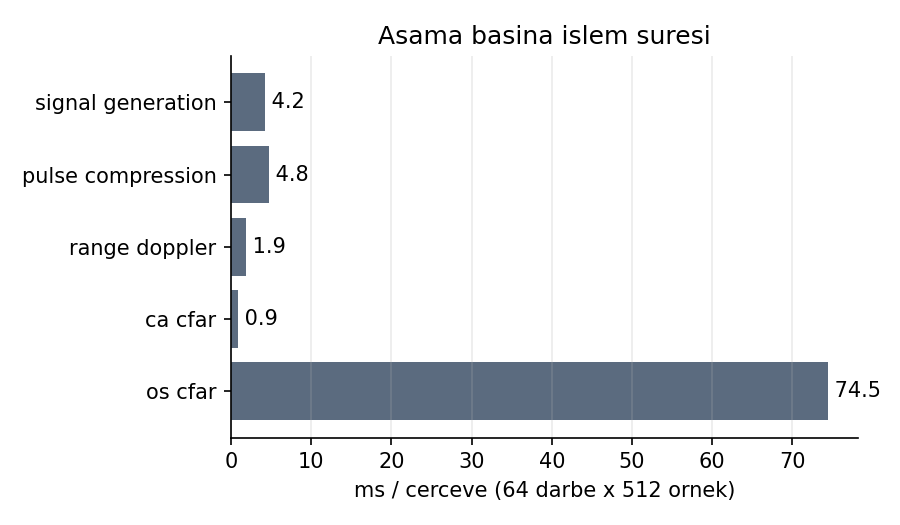
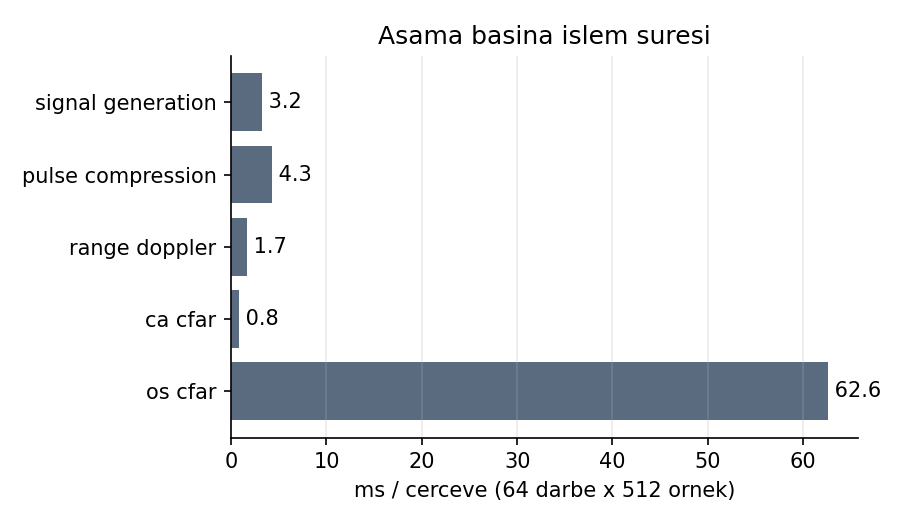
Add README with results, final plots and report script tweaks

diff --git a/scripts/make_report.py b/scripts/make_report.py
@@ -287,14 +287,13 @@ for sc, label in (("homogeneous", "Homojen gürültü"), ("clutter_edge", "Clutt
                                   col_widths=[2.6 * cm] + [1.5 * cm] * len(sel))]
 
 story += [Spacer(1, 6), P("Yorum", H2)] + bullets([
-    "<b>Homojen gürültüde</b> CA ve OS pratikte aynıdır; Pd = 0.5 civarı ≈ 15–16 dB'dedir. Teorik bağımsız-hücre "
-    "değerinden yaklaşık 2–3 dB sağdadır; fark pencere kaybı, scalloping ve CFAR kayıplarından gelir.",
+    "<b>Homojen gürültüde</b> CA ve OS pratikte aynıdır; Pd = 0.5 civarı ≈ 15–16 dB'dedir. Bu nokta ideal "
+    "bağımsız-hücre değerinin birkaç dB sağındadır; fark pencere kaybı, scalloping ve CFAR kayıplarından gelir.",
     "<b>Yakın güçlü hedef senaryosunda</b> CA-CFAR hedefi hemen hiç bulamaz: eğitim penceresindeki 15 dB daha güçlü "
     "komşu ortalamayı şişirir, eşik hedefin üstüne çıkar (maskeleme). OS-CFAR, k. sıralı istatistik tek bir güçlü "
     "hücreden etkilenmediği için yüksek SNR'larda Pd ≈ 1'e ulaşır.",
-    "<b>Clutter kenarında</b> iki dedektör benzer davranır; OS yüksek SNR'da hafif öndedir. Bu senaryoda clutter "
-    "Doppler ekseninde de yayılmış olduğundan hedef kısmen clutter'la örtüşür ve her iki dedektör de "
-    "yüksek SNR'a kadar ilerler."])
+    "<b>Clutter kenarında</b> iki dedektör benzer davranır; OS yüksek SNR'da hafif öndedir. CA yüksek SNR'da "
+    "0.95–0.97 civarında kalırken OS 20 dB'den itibaren 1.0'a ulaşır."])
 
 pfa = read_csv("pfa.csv") if (OUT / "pfa.csv").exists() else []
 story += [P("4.3 Gerçekleşen Pfa", H2),

diff --git a/README.md b/README.md
@@ -1,0 +1,147 @@
+# cfar-radar-pipeline
+
+C++17 ile sıfırdan yazılmış bir **radar sinyal işleme hattı**: simüle I/Q verisi üzerinde **darbe sıkıştırma**, **range-Doppler FFT** ve **CA-/OS-CFAR hedef tespiti**; Monte Carlo ile **Pd / Pfa** ve işlem süresi ölçümü. Harici kütüphane yok — FFT dahil her algoritma bu depoda.
+
+![Range-Doppler haritası ve CFAR tespitleri](docs/images/range_doppler.png)
+
+*Üç hareketli hedef ve 300–900 m arasında sıfır Doppler clutter şeridi. Beyaz daireler gerçek hedefler, mavi daireler CA-CFAR, turuncu çarpılar OS-CFAR tespitleri.*
+
+## Neler var?
+
+| Modül | İş | Dosya |
+|---|---|---|
+| Sinyal modeli | LFM chirp, hareketli hedefler (Doppler fazı), karmaşık Gauss gürültü, clutter | `src/signal_gen.*` |
+| FFT | Kendi yazdığım iteratif radix-2 FFT/IFFT, referans DFT, `fftshift` | `src/fft.*` |
+| Darbe sıkıştırma | FFT tabanlı eşleşik filtre, Hamming yan lob ağırlığı | `src/pulse_compression.*` |
+| Range-Doppler | Slow-time FFT, Hann/Hamming pencere, menzil/hız eksenleri, CSV çıktısı | `src/range_doppler.*` |
+| CFAR | 2B CA-CFAR (integral görüntü ile O(1)) ve OS-CFAR (`nth_element`) | `src/cfar.*` |
+| Değerlendirme | Monte Carlo Pd / Pfa, aşama başına süre | `src/evaluation.*` |
+
+## Mimari
+
+```mermaid
+flowchart LR
+    A["signal_gen<br/>hedef + clutter + gürültü<br/>(darbe × örnek I/Q)"] --> B["pulse_compression<br/>eşleşik filtre<br/>(menzil keskinleşir)"]
+    B --> C["range_doppler<br/>pencere + slow-time FFT<br/>(menzil × hız haritası)"]
+    C --> D["cfar<br/>CA / OS eşik<br/>(adaptif karar)"]
+    D --> E["tespit listesi<br/>menzil m · hız m/s · SNR dB"]
+    C -.-> F["evaluation<br/>Monte Carlo: Pd, Pfa, ms/frame"]
+    D -.-> F
+```
+
+## Derleme ve çalıştırma
+
+Gereksinimler: C++17 derleyici (GCC/Clang/MinGW), CMake ≥ 3.16. Grafikler için Python 3 + `numpy`, `matplotlib`.
+
+```bash
+cmake -S . -B build
+cmake --build build
+ctest --test-dir build --output-on-failure      # 5 test
+./build/radar_demo                              # demo + Monte Carlo (birkaç dakika)
+./build/radar_demo --no-mc                      # yalnızca demo (saniyeler)
+./build/radar_demo --trials 300                 # daha hassas Pd eğrileri
+
+python scripts/plot.py                          # output/*.csv -> docs/images/*.png
+```
+
+(Klasik biçim de çalışır: `mkdir build && cd build && cmake .. && make && ./radar_demo`.)
+
+`radar_demo` şunları yazdırır: radar tasarım büyüklükleri, gerçek hedefler, CA/OS tespit listeleri, süre tablosu, Pd–SNR tabloları ve gerçekleşen Pfa. CSV çıktıları `output/` klasörüne gider.
+
+## Radar parametreleri
+
+| Parametre | Değer | Türetilen | Değer |
+|---|---|---|---|
+| Taşıyıcı | 10 GHz (X-band) | Dalga boyu λ = c/fc | 3 cm |
+| Bant genişliği B | 10 MHz | Menzil çözünürlüğü c/(2B) | 14.99 m |
+| Örnekleme fs | 20 MHz | Menzil hücresi c/(2fs) | 7.49 m |
+| Darbe genişliği | 10 µs (200 örnek) | Hız çözünürlüğü λ·PRF/(2N) | 2.34 m/s |
+| PRF / darbe sayısı | 10 kHz / 64 | Belirsiz hız ±λ·PRF/4 | ±75 m/s |
+
+## Kullanılan denklemler
+
+* **LFM chirp:** s(t) = exp(jπk(t − Tp/2)²), k = B/Tp
+* **Gecikme ve Doppler:** τ = 2R/c; fd = 2v/λ; darbeler arası faz adımı = 2π·fd/PRF
+* **Eşleşik filtre:** y[n] = Σ x[n+m]·s*[m] ⇔ Y[k] = X[k]·S*[k] (FFT → çarp → IFFT). Kazanç L = B·Tp, çözünürlük c/2B
+* **Doppler ekseni:** fd = (k − N/2)·PRF/N, v = fd·λ/2
+* **CA-CFAR:** eşik = α·ortalama(eğitim hücreleri), α = N·(Pfa^(−1/N) − 1)
+* **OS-CFAR:** eşik = T·(k. sıralı istatistik); Pfa = Π_{i=0}^{k−1} (N−i)/(N−i+T) denkleminden T sayısal çözülür
+* **Bütünleştirme sonrası SNR** = A²·L·N/σ² (sıkıştırma ≈ 23 dB + darbe toplama ≈ 18 dB)
+
+## Sonuçlar
+
+### Pd – SNR (tasarım Pfa = 10⁻⁶, 150 deneme/nokta)
+
+![Pd–SNR](docs/images/pd_vs_snr.png)
+
+| Senaryo | Pd = 0.5 SNR | Pd ≥ 0.95 SNR (CA / OS) |
+|---|---|---|
+| Homojen gürültü | ≈ 15.5 dB | 18 dB / 18 dB |
+| Clutter kenarı | ≈ 15.5 dB | ≈ 18 dB / ≈ 18 dB (CA yüksek SNR'da 0.95–0.97'de kalır, OS 20 dB'den itibaren 1.0) |
+| Yakın güçlü hedef (+15 dB, eğitim penceresinde) | CA: hiçbir SNR'da (Pd ≈ 0) · OS: ≈ 17 dB | CA: yok / OS: 22 dB |
+
+* **Homojen gürültüde CA ≈ OS.** Pd = 0.5 noktası teorik bağımsız-hücre değerinden birkaç dB sağda; fark Hann penceresi (≈ 1.8 dB), Hamming ağırlıklı filtre (≈ 1.3 dB), scalloping ve CFAR kayıplarıdır.
+* **Eğitim penceresinde güçlü komşu varsa CA-CFAR hedefi kaçırır** (maskeleme): ortalama şişer, eşik hedefin üstüne çıkar. OS-CFAR k. sıralı istatistiği kullandığı için bundan etkilenmez.
+
+### Gerçekleşen Pfa (yalnızca gürültü)
+
+![Pfa](docs/images/pfa.png)
+
+| Tasarım Pfa | CA-CFAR | OS-CFAR |
+|---|---|---|
+| 10⁻² | 1.30·10⁻² | 1.28·10⁻² |
+| 10⁻³ | 1.71·10⁻³ | 1.71·10⁻³ |
+| 10⁻⁴ | 2.48·10⁻⁴ | 2.45·10⁻⁴ |
+
+Ölçülen Pfa tasarımdan **1.3–2.5 kat yüksek**. Sebep: eşik formülleri bağımsız üstel hücreleri varsayar; gerçekte fs = 2B ile sıkıştırılmış gürültü komşu menzil hücrelerinde, Hann penceresi komşu Doppler hücrelerinde ilintilidir. Bu sapmayı görmek ve açıklamak projenin amaçlarındandı.
+
+### Performans (64 darbe × 512 örnek, tek çekirdek, `-O3`)
+
+![Süre](docs/images/timing.png)
+
+| Aşama | ms / çerçeve |
+|---|---|
+| Darbe sıkıştırma | 4.3 |
+| Range-Doppler | 1.7 |
+| CA-CFAR | 0.8 |
+| OS-CFAR | 62.6 |
+| **Hat (sıkıştırma + RD + CA-CFAR)** | **≈ 6.7** |
+| Hat (OS-CFAR ile) | ≈ 68.5 |
+
+CA-CFAR integral görüntü sayesinde hücre başına O(1); OS-CFAR her hücrede 138 elemanlı kısmi sıralama yaptığı için ≈ 80 kat yavaş. (Süreler makineye ve anlık yüke bağlıdır; oranlar daha anlamlıdır.)
+
+## Testler
+
+Dış bağımlılık yok (`tests/test_util.h`); CTest ile 5 test:
+
+* `test_signal_gen` — çözünürlük hesapları, chirp genliği, yankı süresi, Doppler faz adımı, gürültü gücü
+* `test_fft` — bilinen sinüs, FFT = naif DFT, ifft(fft(x)) = x, Parseval
+* `test_pulse_compression` — tepe doğru menzil hücresinde, kesirli gecikme, gürültüde tespit, iki hedefin ayrışması, yan lob bastırma
+* `test_range_doppler` — bilinen menzil/hızdaki hedef beklenen hücrede, pencere etkisi
+* `test_cfar` — eşik çarpanı formülleri, gürültüde gerçekleşen Pfa, CA maskeleme / OS dayanıklılığı, uçtan uca tespit
+
+## Öğrenilen dersler
+
+* **Yan lob tabanı:** Çok güçlü clutter (CNR ≈ 50 dB) Hamming ağırlığıyla bile (−44 dB) sıfır Doppler satırını gürültünün ≈ 15 dB üstüne çıkardı ve zayıf hedefi gizledi. Demo clutter'ı gerçekçi seviyeye çekildi.
+* **CFAR durağan clutter'ı bastırmaz:** Sıfır Doppler şeridindeki güçlü hücreler hedef gibi görünür; OS-CFAR'da eğitim hücrelerinin >%25'i clutter olunca (75. yüzdelik) daha çok sahte tespit çıkar. Çözüm MTI / Doppler çentik filtresi.
+* **Ölçülen SNR ≠ girilen SNR:** pencere, ağırlık ve scalloping kayıpları birkaç dB tutar.
+
+Ayrıntılı anlatım, okuma sırası ve 10 mülakat sorusu: [`docs/LEARNING_NOTES.md`](docs/LEARNING_NOTES.md).
+
+## Kısıtlar ve gelecek işler
+
+* Basitleştirilmiş fiziksel model: stop-and-hop, menzil göçü yok, tek kanal, yayılım kayıpları yok.
+* Dairesel korelasyon nedeniyle pencerenin son ~200 örneğine düşen hedefler kesilir; değerlendirme bu bölgeyi kullanmaz.
+* Alt-hücre interpolasyonu yok; kestirimler hücre ızgarasına bağlı.
+* Gelecek: MTI/clutter bastırma, Kalman filtresiyle takip, SIMD/OpenMP ile OS-CFAR hızlandırma, FFTW ile karşılaştırma, ilinti için kalibre edilmiş eşik çarpanı, tespitlerin mesh ağı üzerinden FEC korumalı iletimi.
+
+## Depo yapısı
+
+```
+├── CMakeLists.txt
+├── src/        radar_params.h, matrix.h, signal_gen, fft, pulse_compression,
+│               range_doppler, cfar, evaluation, main.cpp
+├── tests/      5 test + test_util.h
+├── scripts/    plot.py (grafikler), make_report.py (PDF rapor)
+└── docs/       LEARNING_NOTES.md, images/
+```
